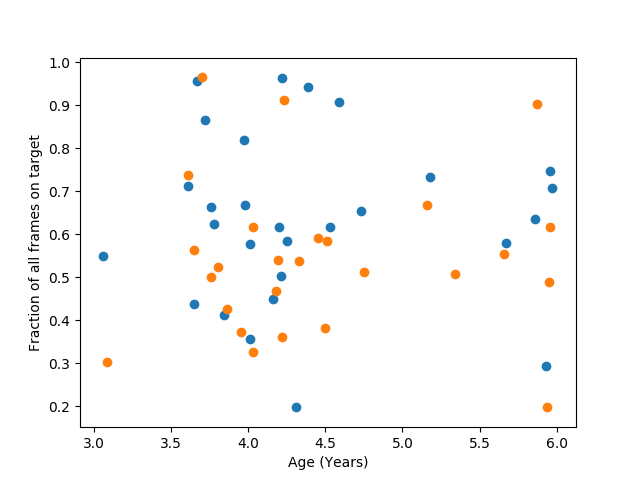
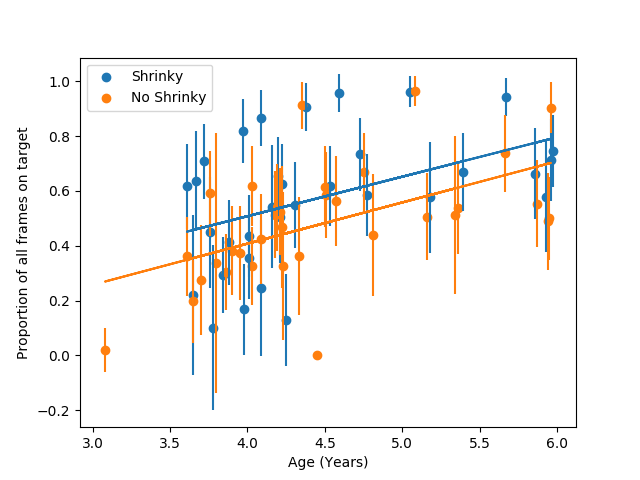
Improved plots of performance over age and correctly removed subjects with too many missing trials.

diff --git a/shrinky_analysis.py b/shrinky_analysis.py
@@ -6,10 +6,17 @@ from util import preprocess_all, jagged_to_numpy
 import data_paths_full as dp # Large unsupervised (shrinky) dataset
 import numpy as np
 from read_ages import read_ages
+import math
+from sklearn import linear_model
+from sklearn.metrics import r2_score
+import pyqt_fit.nonparam_regression as smooth
+from pyqt_fit import npr_methods
+import pyqt_fit.bootstrap as bs
 
 # load datasets
 data_shrinky = [load_full_subject_data(*entry, filter_threshold = 1) for entry in zip(dp.trackit_fnames_shrinky, dp.eyetrack_fnames_shrinky)]
 data_noshrinky = [load_full_subject_data(*entry, filter_threshold = 1) for entry in zip(dp.trackit_fnames_noshrinky, dp.eyetrack_fnames_noshrinky)]
+ages_shrinky, ages_noshrinky = read_ages()
 
 print '\nMissing data before interpolation and discarding:'
 print 'Shrinky: ' + str(np.mean(np.isnan([x for subject_data in data_shrinky for trial_data in subject_data[0] for x in trial_data[0]])))
@@ -18,16 +25,20 @@ print 'No Shrinky: ' + str(np.mean(np.isnan([x for subject_data in data_noshrink
 # Preprocess data (synchronize TrackIt with eyetracking, and interpolate some missing data, and discard trials/subjects
 # with too much missing data
 trial_discard_threshold = 0.5 # 0 discards trials with *any* missing data; 1 keeps all trials
-subject_discard_threshold = 1 # 0 discards subjects with *any* missing trials; 1 keeps all subjects
+subject_discard_threshold = 0.5 # 0 discards subjects with *any* missing trials; 1 keeps all subjects
 data_shrinky = [preprocess_all(*subject_data, \
                                trial_discard_threshold = trial_discard_threshold, \
                                subject_discard_threshold = subject_discard_threshold) \
                 for subject_data in data_shrinky]
+ages_shrinky = [age for (age,subject_data) in zip(ages_shrinky, data_shrinky) if subject_data[0] is not None]
+print ages_shrinky
 data_shrinky = [subject_data for subject_data in data_shrinky if subject_data[0] is not None]
 data_noshrinky = [preprocess_all(*subject_data, \
                                trial_discard_threshold = trial_discard_threshold, \
                                subject_discard_threshold = subject_discard_threshold) \
                 for subject_data in data_noshrinky]
+ages_noshrinky = [age for (age,subject_data) in zip(ages_noshrinky, data_noshrinky) if subject_data[0] is not None]
+print ages_noshrinky
 data_noshrinky = [subject_data for subject_data in data_noshrinky if subject_data[0] is not None]
 
 print '\nMissing data after interpolation and discarding:'
@@ -35,76 +46,189 @@ print 'Shrinky: ' + str(np.mean(np.isnan([x for subject_data in data_shrinky for
 print 'No Shrinky: ' + str(np.mean(np.isnan([x for subject_data in data_noshrinky for trial_data in subject_data[0] for x in trial_data[0]])))
 
 # Values taken from supervised results in CogSci 18 paper
-sigma2_adult = 490 ** 2
 sigma2_child = 870 ** 2
 
-# # Apply HMM analysis to each dataset
-# # Each MLEs_*_* is a subject X trial X timepoint array of states, taking integer values in [0, num_distractors]
-# MLEs_shrinky = [[eyetracking_hmm.get_trackit_MLE(*trial_data, sigma2 = sigma2_adult) for trial_data in zip(*subject_data)] for subject_data in data_shrinky]
-# MLEs_noshrinky = [[eyetracking_hmm.get_trackit_MLE(*trial_data, sigma2 = sigma2_adult) for trial_data in zip(*subject_data)] for subject_data in data_noshrinky]
-# # Since HMM analysis is slow, cache the classifications (estimating state sequences)
-# np.savez(dp.root + 'cache/' + 'MLEs_shrinky_analysis.npz', \
-#          MLEs_shrinky = MLEs_shrinky, \
-#          MLEs_noshrinky = MLEs_noshrinky)
+# Apply HMM analysis to each dataset
+# Each MLEs_*_* is a subject X trial X timepoint array of states, taking integer values in [0, num_distractors]
+MLEs_shrinky = [[eyetracking_hmm.get_trackit_MLE(*trial_data, sigma2 = sigma2_child) for trial_data in zip(*subject_data)] for subject_data in data_shrinky]
+MLEs_noshrinky = [[eyetracking_hmm.get_trackit_MLE(*trial_data, sigma2 = sigma2_adult) for trial_data in zip(*subject_data)] for subject_data in data_noshrinky]
+# Since HMM analysis is slow, cache the classifications (estimating state sequences)
+np.savez(dp.root + 'cache/' + 'MLEs_shrinky_analysis.npz', \
+         MLEs_shrinky = MLEs_shrinky, \
+         MLEs_noshrinky = MLEs_noshrinky)
 
 # Load HMM analysis classifications from cache file
 MLEs_cache_file = np.load(dp.root + 'cache/' + 'MLEs_shrinky_analysis.npz')
 MLEs_shrinky = MLEs_cache_file['MLEs_shrinky']
 MLEs_noshrinky = MLEs_cache_file['MLEs_noshrinky']
 
-# Plot proportion of (all) trials on target over trial time
-plt.figure(1)
-aligned_shrinky = jagged_to_numpy([[float(x == 0) for x in trial_data] for subject_data in MLEs_shrinky for trial_data in subject_data])
-aligned_noshrinky = jagged_to_numpy([[float(x == 0) for x in trial_data] for subject_data in MLEs_noshrinky for trial_data in subject_data])
-plt.plot(np.nanmean(aligned_shrinky, axis = 0))
-plt.plot(np.nanmean(aligned_noshrinky, axis = 0))
-plt.legend(['Shrinky', 'No Shrinky'])
-# For each dataset, plot a vertical line indicating the length of the shortest trial
-min_trial_len_shrinky = min([len(trial_data) for subject_data in MLEs_shrinky for trial_data in subject_data])
-min_trial_len_noshrinky = min([len(trial_data) for subject_data in MLEs_noshrinky for trial_data in subject_data])
-plt.gca().set_color_cycle(None)
-plt.plot([min_trial_len_shrinky, min_trial_len_shrinky], [0, 1])
-plt.plot([min_trial_len_noshrinky, min_trial_len_noshrinky], [0, 1])
-plt.xlabel('Time (frames, at 60Hz)')
-plt.ylabel('Fraction of all trials on target')
+# # Plot proportion of (all) trials on target over trial time
+# plt.figure(1)
+# aligned_shrinky = jagged_to_numpy([[float(x == 0) for x in trial_data] for subject_data in MLEs_shrinky for trial_data in subject_data])
+# aligned_noshrinky = jagged_to_numpy([[float(x == 0) for x in trial_data] for subject_data in MLEs_noshrinky for trial_data in subject_data])
+# plt.plot(np.nanmean(aligned_shrinky, axis = 0))
+# plt.plot(np.nanmean(aligned_noshrinky, axis = 0))
+# plt.legend(['Shrinky', 'No Shrinky'])
+# # For each dataset, plot a vertical line indicating the length of the shortest trial
+# min_trial_len_shrinky = min([len(trial_data) for subject_data in MLEs_shrinky for trial_data in subject_data])
+# min_trial_len_noshrinky = min([len(trial_data) for subject_data in MLEs_noshrinky for trial_data in subject_data])
+# plt.gca().set_color_cycle(None)
+# plt.plot([min_trial_len_shrinky, min_trial_len_shrinky], [0, 1])
+# plt.plot([min_trial_len_noshrinky, min_trial_len_noshrinky], [0, 1])
+# plt.xlabel('Time (frames, at 60Hz)')
+# plt.ylabel('Fraction of all trials on target')
+# 
+# # Plot proportion of (non-missing or interpolated) trials on target over trial time
+# plt.figure(2)
+# def on_target_or_nan(x): # replace missing data (encoded as -1) with nan
+#   if x == -1:
+#     return float("nan")
+#   return x == 0
+# aligned_shrinky = jagged_to_numpy([[on_target_or_nan(x) for x in trial_data] for subject_data in MLEs_shrinky for trial_data in subject_data])
+# aligned_noshrinky = jagged_to_numpy([[on_target_or_nan(x) for x in trial_data] for subject_data in MLEs_noshrinky for trial_data in subject_data])
+# plt.plot(np.nanmean(aligned_shrinky, axis = 0))
+# plt.plot(np.nanmean(aligned_noshrinky, axis = 0))
+# plt.legend(['Shrinky', 'No Shrinky'])
+# plt.gca().set_color_cycle(None)
+# plt.plot([min_trial_len_shrinky, min_trial_len_shrinky], [0, 1])
+# plt.plot([min_trial_len_noshrinky, min_trial_len_noshrinky], [0, 1])
+# plt.xlabel('Time (frames, at 60Hz)')
+# plt.ylabel('Fraction of non-missing or interpolated frames on target')
+# 
+# # Plot proportion of missing data over trial time
+# plt.figure(3)
+# aligned_shrinky = jagged_to_numpy([[float(x == -1) for x in trial_data] for subject_data in MLEs_shrinky for trial_data in subject_data])
+# aligned_noshrinky = jagged_to_numpy([[float(x == -1) for x in trial_data] for subject_data in MLEs_noshrinky for trial_data in subject_data])
+# plt.plot(np.nanmean(aligned_shrinky, axis = 0))
+# plt.plot(np.nanmean(aligned_noshrinky, axis = 0))
+# plt.legend(['Shrinky', 'No Shrinky'])
+# plt.gca().set_color_cycle(None)
+# plt.plot([min_trial_len_shrinky, min_trial_len_shrinky], [0, 1])
+# plt.plot([min_trial_len_noshrinky, min_trial_len_noshrinky], [0, 1])
+# plt.xlabel('Trial Time (frames, at 60Hz)')
+# plt.ylabel('Fraction of frames missing data')
 
-# Plot proportion of (non-missing or interpolated) trials on target over trial time
-plt.figure(2)
-def on_target_or_nan(x): # replace missing data (encoded as -1) with nan
-  if x == -1:
-    return float("nan")
-  return x == 0
-aligned_shrinky = jagged_to_numpy([[on_target_or_nan(x) for x in trial_data] for subject_data in MLEs_shrinky for trial_data in subject_data])
-aligned_noshrinky = jagged_to_numpy([[on_target_or_nan(x) for x in trial_data] for subject_data in MLEs_noshrinky for trial_data in subject_data])
-plt.plot(np.nanmean(aligned_shrinky, axis = 0))
-plt.plot(np.nanmean(aligned_noshrinky, axis = 0))
-plt.legend(['Shrinky', 'No Shrinky'])
-plt.gca().set_color_cycle(None)
-plt.plot([min_trial_len_shrinky, min_trial_len_shrinky], [0, 1])
-plt.plot([min_trial_len_noshrinky, min_trial_len_noshrinky], [0, 1])
-plt.xlabel('Time (frames, at 60Hz)')
-plt.ylabel('Fraction of non-missing or interpolated frames on target')
-
-# Plot proportion of missing data over trial time
-plt.figure(3)
-aligned_shrinky = jagged_to_numpy([[float(x == -1) for x in trial_data] for subject_data in MLEs_shrinky for trial_data in subject_data])
-aligned_noshrinky = jagged_to_numpy([[float(x == -1) for x in trial_data] for subject_data in MLEs_noshrinky for trial_data in subject_data])
-plt.plot(np.nanmean(aligned_shrinky, axis = 0))
-plt.plot(np.nanmean(aligned_noshrinky, axis = 0))
-plt.legend(['Shrinky', 'No Shrinky'])
-plt.gca().set_color_cycle(None)
-plt.plot([min_trial_len_shrinky, min_trial_len_shrinky], [0, 1])
-plt.plot([min_trial_len_noshrinky, min_trial_len_noshrinky], [0, 1])
-plt.xlabel('Trial Time (frames, at 60Hz)')
-plt.ylabel('Fraction of frames missing data')
-
-# Plot of subject performance over age
+# Plot of subject performance (out of all frames) over age
 plt.figure(4)
-performance_shrinky = [np.nanmean([float(x == 0) for trial_data in subject_data for x in trial_data]) for subject_data in MLEs_shrinky]
-performance_noshrinky = [np.nanmean([float(x == 0) for trial_data in subject_data for x in trial_data]) for subject_data in MLEs_noshrinky]
-shrinky_ages, noshrinky_ages = read_ages()
-plt.scatter(shrinky_ages, performance_shrinky)
-plt.scatter(noshrinky_ages, performance_noshrinky)
+performance_shrinky = np.asarray([np.nanmean([float(x == 0) for trial_data in subject_data for x in trial_data]) for subject_data in MLEs_shrinky])
+SEs_shrinky = [np.asarray(np.nanstd([float(x == 0) for trial_data in subject_data for x in trial_data]))/math.sqrt(len(subject_data)) for subject_data in MLEs_shrinky]
+performance_noshrinky = np.asarray([np.nanmean([float(x == 0) for trial_data in subject_data for x in trial_data]) for subject_data in MLEs_noshrinky])
+SEs_noshrinky = [np.asarray(np.nanstd([float(x == 0) for trial_data in subject_data for x in trial_data]))/math.sqrt(len(subject_data)) for subject_data in MLEs_noshrinky]
+plt.scatter(ages_shrinky, performance_shrinky)
+plt.scatter(ages_noshrinky, performance_noshrinky)
+plt.errorbar(ages_shrinky, performance_shrinky, yerr = SEs_shrinky, linestyle = '')
+plt.errorbar(ages_noshrinky, performance_noshrinky, yerr = SEs_noshrinky, linestyle = '')
+
+plt.legend(['Shrinky', 'No Shrinky'])
 plt.xlabel('Age (Years)')
-plt.ylabel('Fraction of all frames on target')
+plt.ylabel('Proportion of all frames on target')
+
+# Plot regression lines
+plt.gca().set_color_cycle(None)
+# SHRINKY condition
+X_shrinky = ages_shrinky[~np.isnan(performance_shrinky), np.newaxis]
+y_shrinky = performance_shrinky[~np.isnan(performance_shrinky)]
+regr_shrinky = linear_model.LinearRegression()
+regr_shrinky.fit(X_shrinky, y_shrinky)
+performance_pred_shrinky = regr_shrinky.predict(X_shrinky)
+plt.plot(X_shrinky, performance_pred_shrinky)
+# NOSHRINKY condition
+X_noshrinky = ages_noshrinky[~np.isnan(performance_noshrinky), np.newaxis]
+y_noshrinky = performance_noshrinky[~np.isnan(performance_noshrinky)]
+regr_noshrinky = linear_model.LinearRegression()
+regr_noshrinky.fit(X_noshrinky, y_noshrinky)
+performance_pred_noshrinky = regr_noshrinky.predict(X_noshrinky)
+plt.plot(X_noshrinky, performance_pred_noshrinky)
+# # Nonparametric (Nadaraya-Watson) regression
+# plt.gca().set_color_cycle(None)
+# grid = np.r_[3:6:512j]
+# # SHRINKY condition
+# k0 = smooth.NonParamRegression(X_shrinky[:,0], y_shrinky, method=npr_methods.SpatialAverage())
+# k0.fit()
+# plt.plot(grid, k0(grid), label="Spatial Averaging", linewidth=2)
+# def fit(xs, ys):
+#   est = smooth.NonParamRegression(xs, ys, method=npr_methods.LocalPolynomialKernel(q=2))
+#   est.fit()
+#   return est
+# result = bs.bootstrap(fit, X_shrinky[:,0], y_shrinky, eval_points = grid, CI = (95,99), repeats = 1000)
+# plt.plot(grid, result.CIs[0][0,0], 'g--', label='95% CI', linewidth=2)
+# plt.plot(grid, result.CIs[0][0,1], 'g--', linewidth=2)
+# plt.fill_between(grid, result.CIs[0][0,0], result.CIs[0][0,1], color='g', alpha=0.25)
+# # NOSHRINKY condition
+# k0 = smooth.NonParamRegression(X_noshrinky[:,0], y_noshrinky, method=npr_methods.SpatialAverage())
+# k0.fit()
+# plt.plot(grid, k0(grid), label="Spatial Averaging", linewidth=2)
+# result = bs.bootstrap(fit, X_noshrinky[:,0], y_noshrinky, eval_points = grid, CI = (95,99), repeats = 1000)
+# plt.plot(grid, result.CIs[0][0,0], 'g--', label='95% CI', linewidth=2)
+# plt.plot(grid, result.CIs[0][0,1], 'g--', linewidth=2)
+# plt.fill_between(grid, result.CIs[0][0,0], result.CIs[0][0,1], color='g', alpha=0.25)
+plt.ylim((0,1))
+
+# # Plot of subject performance (out of all non-missing/interpolated) over age
+# plt.figure(5)
+# performance_shrinky = np.asarray([np.nanmean([on_target_or_nan(x) for trial_data in subject_data for x in trial_data]) for subject_data in MLEs_shrinky])
+# SEs_shrinky = [np.asarray(np.nanstd([on_target_or_nan(x) for trial_data in subject_data for x in trial_data]))/math.sqrt(len(subject_data)) for subject_data in MLEs_shrinky]
+# performance_noshrinky = np.asarray([np.nanmean([on_target_or_nan(x) for trial_data in subject_data for x in trial_data]) for subject_data in MLEs_noshrinky])
+# SEs_noshrinky = [np.asarray(np.nanstd([on_target_or_nan(x) for trial_data in subject_data for x in trial_data]))/math.sqrt(len(subject_data)) for subject_data in MLEs_noshrinky]
+# ages_shrinky, ages_noshrinky = read_ages()
+# plt.scatter(ages_shrinky, performance_shrinky)
+# plt.scatter(ages_noshrinky, performance_noshrinky)
+# plt.errorbar(ages_shrinky, performance_shrinky, yerr = SEs_shrinky, linestyle = '')
+# plt.errorbar(ages_noshrinky, performance_noshrinky, yerr = SEs_noshrinky, linestyle = '')
+# 
+# plt.legend(['Shrinky', 'No Shrinky'])
+# plt.xlabel('Age (Years)')
+# plt.ylabel('Proportion of non-missing or interpolated frames on target')
+# 
+# # Plot regression lines
+# plt.gca().set_color_cycle(None)
+# # SHRINKY condition
+# X_shrinky = ages_shrinky[~np.isnan(performance_shrinky), np.newaxis]
+# y_shrinky = performance_shrinky[~np.isnan(performance_shrinky)]
+# regr_shrinky = linear_model.LinearRegression()
+# regr_shrinky.fit(X_shrinky, y_shrinky)
+# performance_pred_shrinky = regr_shrinky.predict(X_shrinky)
+# plt.plot(X_shrinky, performance_pred_shrinky)
+# # NOSHRINKY condition
+# X_noshrinky = ages_noshrinky[~np.isnan(performance_noshrinky), np.newaxis]
+# y_noshrinky = performance_noshrinky[~np.isnan(performance_noshrinky)]
+# regr_noshrinky = linear_model.LinearRegression()
+# regr_noshrinky.fit(X_noshrinky, y_noshrinky)
+# performance_pred_noshrinky = regr_noshrinky.predict(X_noshrinky)
+# plt.plot(X_noshrinky, performance_pred_noshrinky)
+# 
+# # Plot of missing data (proportion of all frames) over age
+# plt.figure(6)
+# missing_data_shrinky = np.asarray([np.nanmean([float(x == -1) for trial_data in subject_data for x in trial_data]) for subject_data in MLEs_shrinky])
+# # SEs_shrinky = [np.asarray(np.nanstd([float(x == -1) for trial_data in subject_data for x in trial_data]))/math.sqrt(len(subject_data)) for subject_data in MLEs_shrinky]
+# missing_data_noshrinky = np.asarray([np.nanmean([float(x == -1) for trial_data in subject_data for x in trial_data]) for subject_data in MLEs_noshrinky])
+# # SEs_noshrinky = [np.asarray(np.nanstd([float(x == -1) for trial_data in subject_data for x in trial_data]))/math.sqrt(len(subject_data)) for subject_data in MLEs_noshrinky]
+# ages_shrinky, ages_noshrinky = read_ages()
+# plt.scatter(ages_shrinky, missing_data_shrinky)
+# plt.scatter(ages_noshrinky, missing_data_noshrinky)
+# # plt.errorbar(ages_shrinky, missing_data_shrinky, yerr = SEs_shrinky, linestyle = '')
+# # plt.errorbar(ages_noshrinky, missing_data_noshrinky, yerr = SEs_noshrinky, linestyle = '')
+# 
+# plt.legend(['Shrinky', 'No Shrinky'])
+# plt.xlabel('Age (Years)')
+# plt.ylabel('Proportion of missing frames')
+# 
+# # Plot regression lines
+# plt.gca().set_color_cycle(None)
+# # SHRINKY condition
+# X_shrinky = ages_shrinky[~np.isnan(missing_data_shrinky), np.newaxis]
+# y_shrinky = missing_data_shrinky[~np.isnan(missing_data_shrinky)]
+# regr_shrinky = linear_model.LinearRegression()
+# regr_shrinky.fit(X_shrinky, y_shrinky)
+# missing_data_pred_shrinky = regr_shrinky.predict(X_shrinky)
+# plt.plot(X_shrinky, missing_data_pred_shrinky)
+# # NOSHRINKY condition
+# X_noshrinky = ages_noshrinky[~np.isnan(missing_data_noshrinky), np.newaxis]
+# y_noshrinky = missing_data_noshrinky[~np.isnan(missing_data_noshrinky)]
+# regr_noshrinky = linear_model.LinearRegression()
+# regr_noshrinky.fit(X_noshrinky, y_noshrinky)
+# missing_data_pred_noshrinky = regr_noshrinky.predict(X_noshrinky)
+# plt.plot(X_noshrinky, missing_data_pred_noshrinky)
+# plt.ylim((0,1))
+
 plt.show()

diff --git a/read_ages.py b/read_ages.py
@@ -1,6 +1,7 @@
 import csv
 import math
 from data_paths_full import shrinky_ages_file as ages_path
+import numpy as np
 
 def read_ages():
   shrinky_ages = []
@@ -17,4 +18,4 @@ def read_ages():
         if not math.isnan(new_val): # skip nans
           noshrinky_ages.append(new_val)
       row_idx += 1
-  return shrinky_ages, noshrinky_ages
+  return np.asarray(shrinky_ages), np.asarray(noshrinky_ages)

diff --git a/eyetracking_hmm.py b/eyetracking_hmm.py
@@ -5,6 +5,8 @@ from math import log
 # sigma2 - spherical emission variance (i.e., E[||X - E[X]||_2^2])
 def get_trackit_MLE(eye_track, target, distractors, sigma2 = 100 ** 2):
 
+  print 'Next trial'
+
   X = eye_track.swapaxes(0, 1)
   mu = np.concatenate((target[None, :, :], distractors)).swapaxes(1, 2)
   return get_MLE(X, mu, sigma2 = sigma2)
